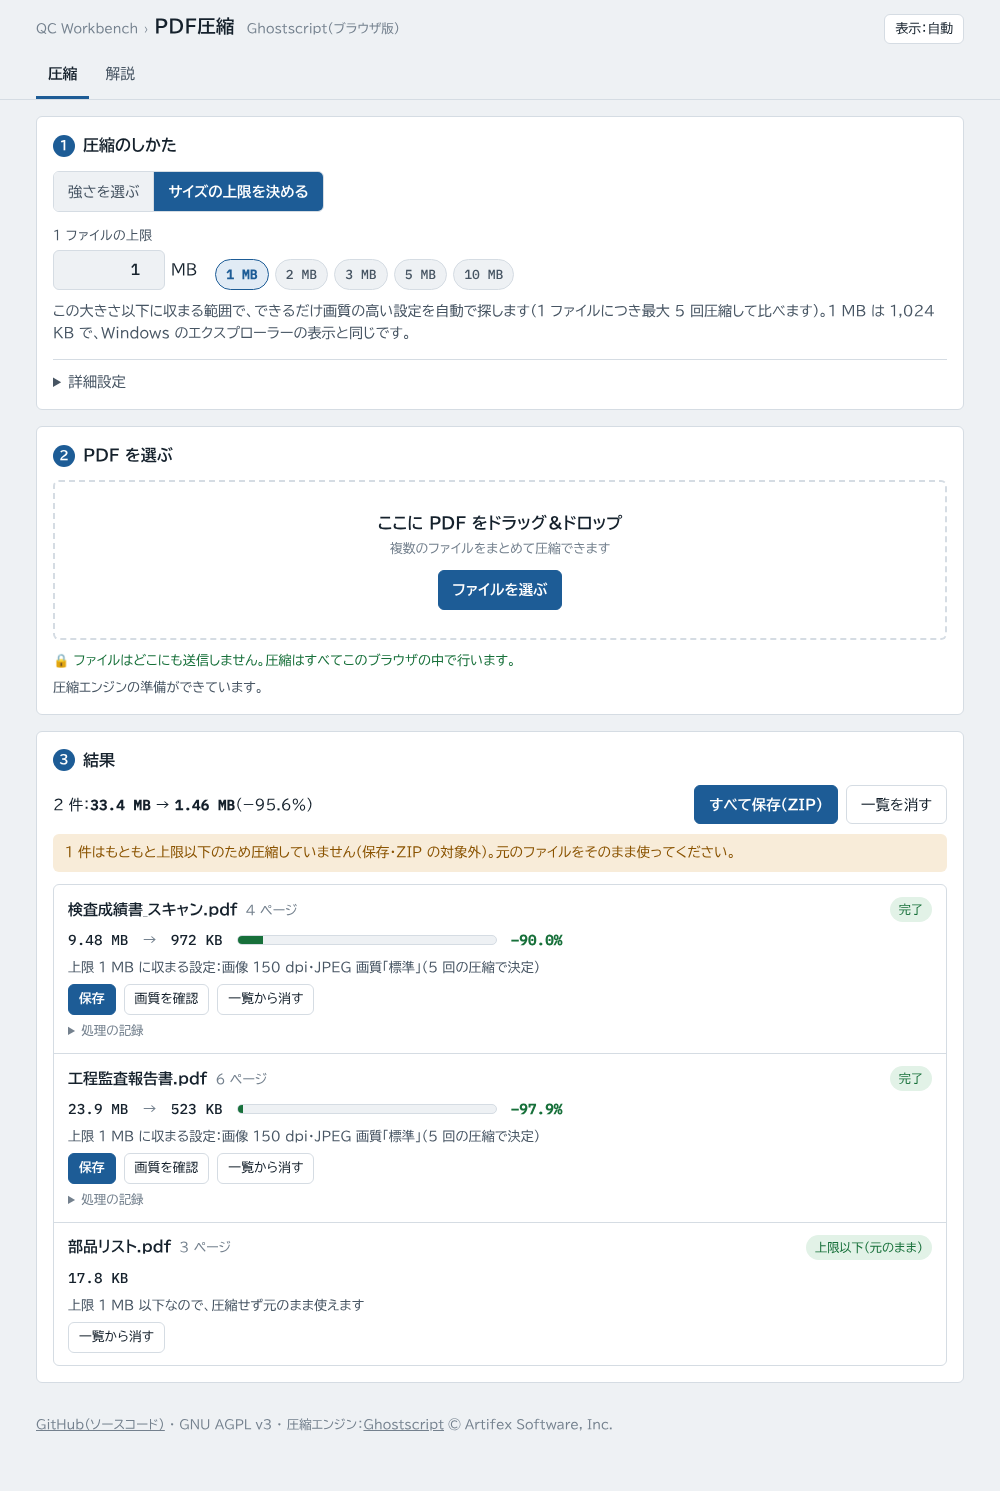
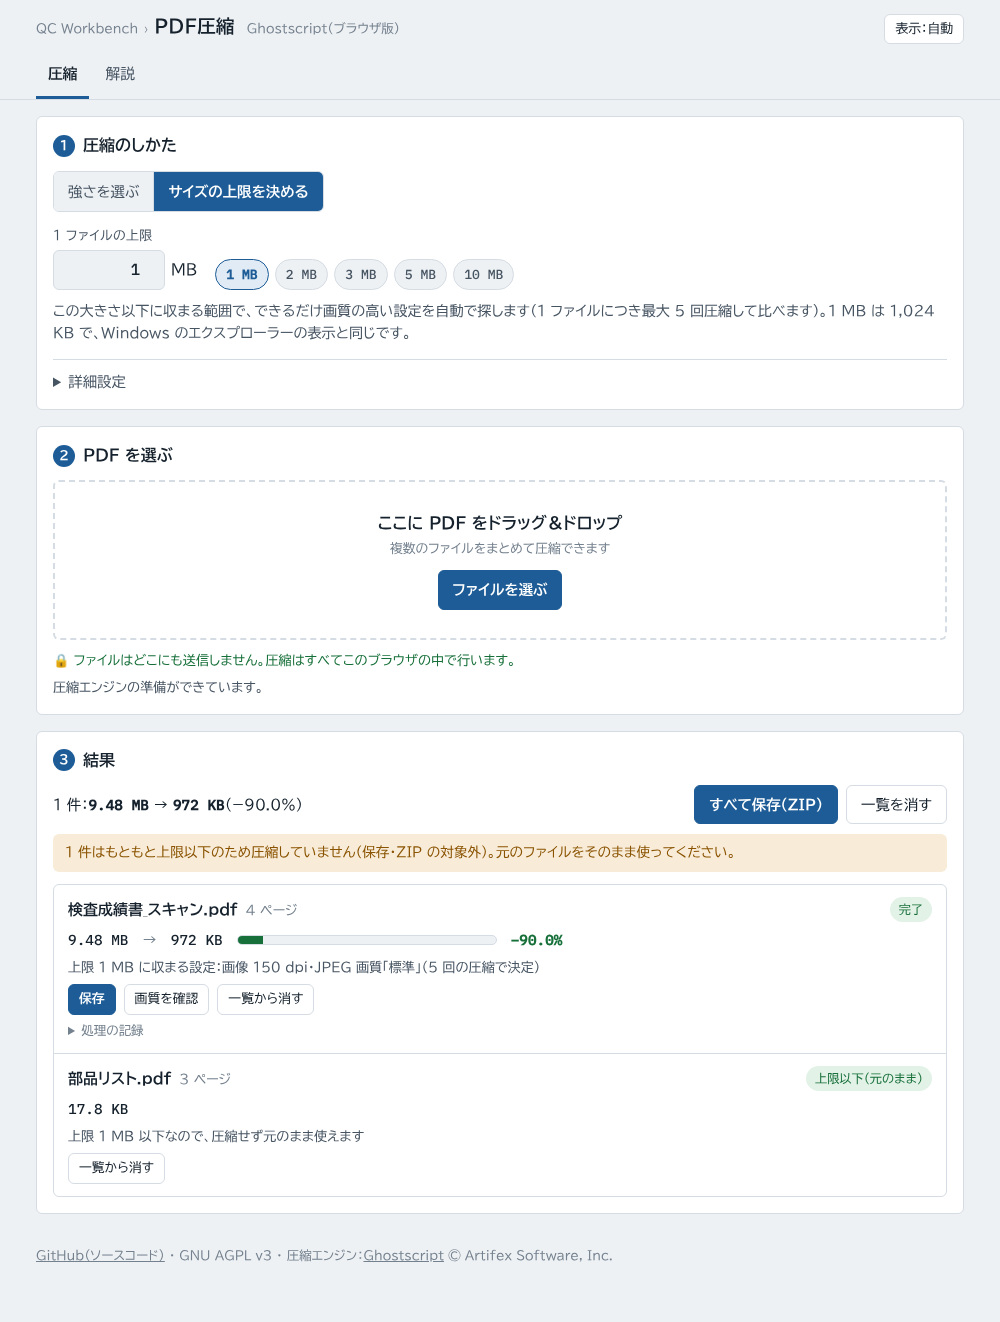
スクリーンショットを撮り直し（報告書のサンプルを除外）

diff --git a/tools/screenshots.py b/tools/screenshots.py
@@ -4,7 +4,7 @@
 #   python -m http.server 8765   （リポジトリのルートで起動しておく）
 #   python tools/screenshots.py FONT_DIR PDF1 PDF2 ...
 # 画面と同じ字体（BIZ UDPGothic・IBM Plex Mono）で撮るため、Google Fonts への要求を手元のフォントで返す。
-# PDF は任意（撮影に使ったのは、スキャンした書類・写真の多い報告書・文字だけの一覧の 3 種類）
+# PDF は任意（撮影に使ったのは、スキャンした書類と文字だけの一覧の 2 種類）
 import sys, re
 from pathlib import Path
 from playwright.sync_api import sync_playwright
